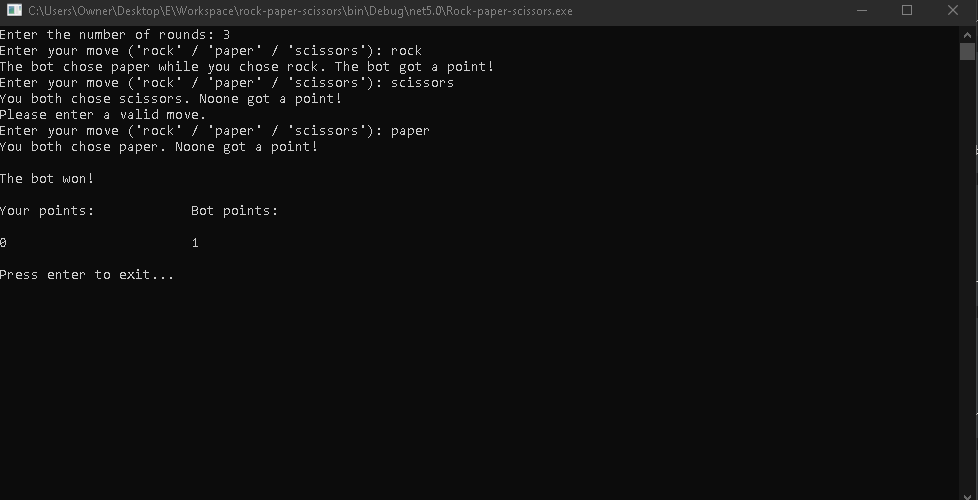
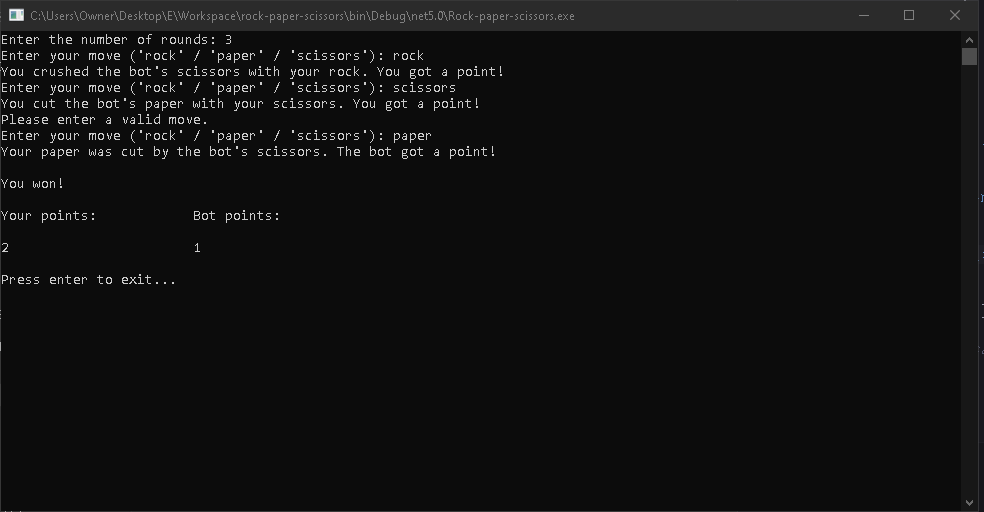
updated demos, fixed bugs

diff --git a/Program.cs b/Program.cs
@@ -50,7 +50,7 @@ namespace Rock_paper_scissors {
 
                         } else if (move == "paper" && botMove == "scissors") {
 
-                            Console.WriteLine("You cut the bot's paper with your scissors. You got a point!");
+                            Console.WriteLine("Your paper was cut by the bot's scissors. The bot got a point!");
                             botPoints ++;
 
                         }
@@ -95,7 +95,7 @@ namespace Rock_paper_scissors {
                     // Determining the winner.
                     if (botPoints > points) Console.WriteLine("\nThe bot won!\n\nYour points:\t\tBot points:\n\n" + points + "\t\t\t" + botPoints);
 
-                    if (points > botPoints) Console.WriteLine("\nYou won!\n\nYour points:\t\tBot points:\n\n" + points + "\t\t\t" + botPoints);
+                    else if (points > botPoints) Console.WriteLine("\nYou won!\n\nYour points:\t\tBot points:\n\n" + points + "\t\t\t" + botPoints);
 
                     else Console.WriteLine("\nIt is a draw!\n\nYour points:\t\tBot points:\n\n" + points + "\t\t\t" + botPoints);
 
